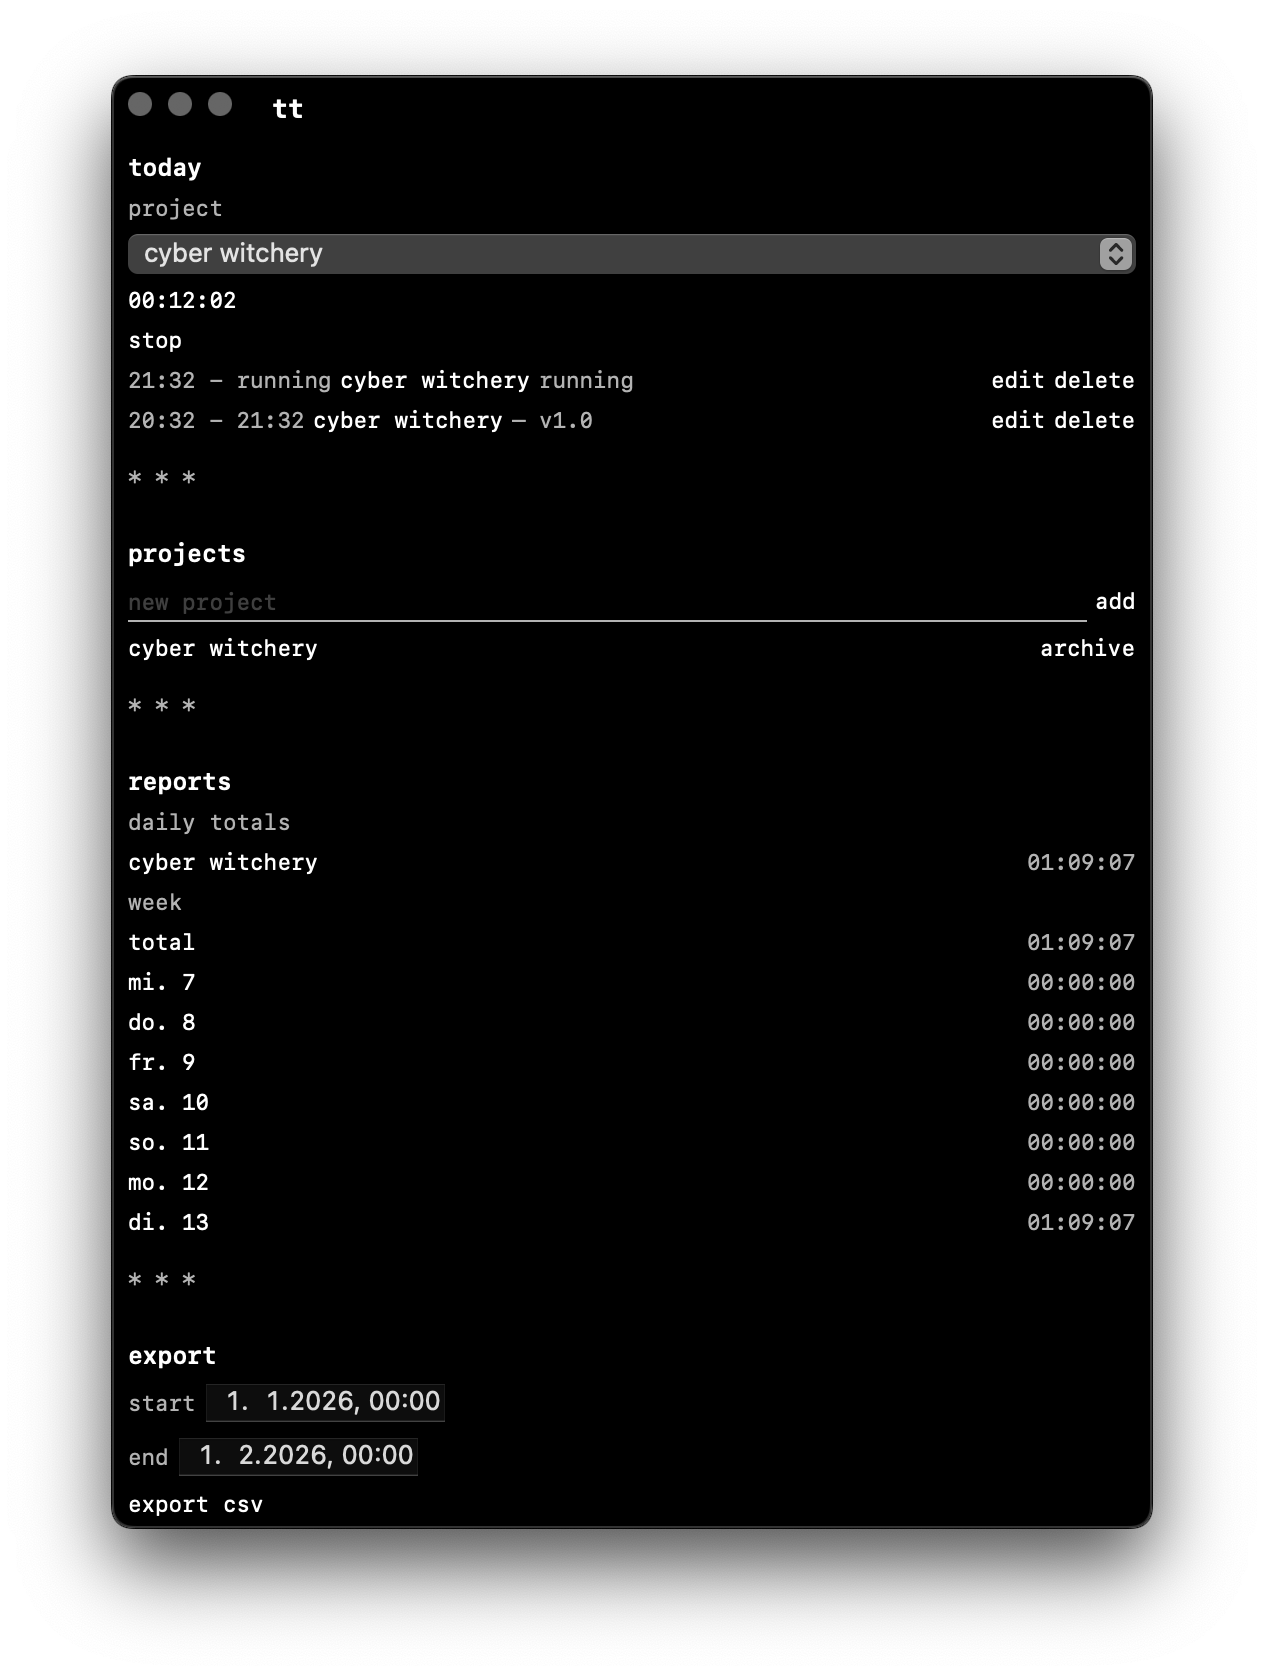
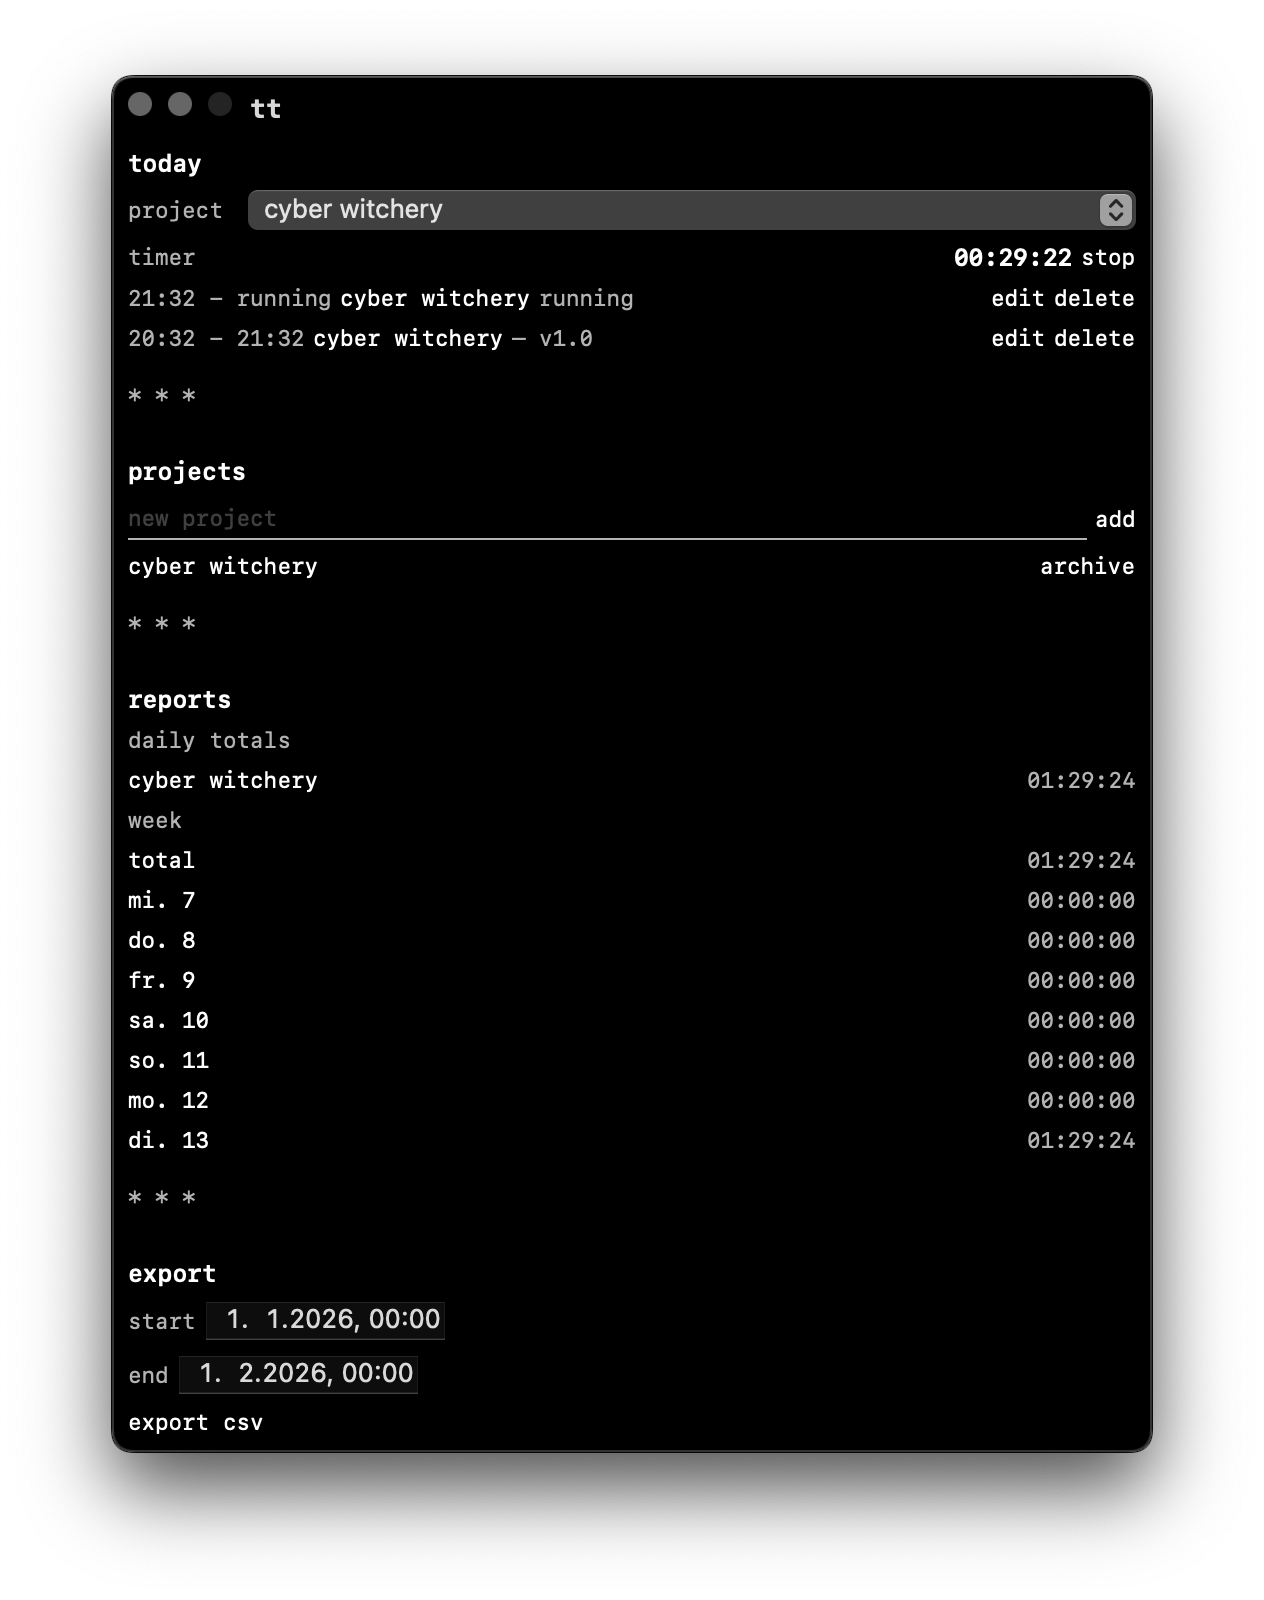
a better main window

diff --git a/tt/UI/Views/MainWindowView.swift b/tt/UI/Views/MainWindowView.swift
@@ -28,43 +28,54 @@ struct MainWindowView: View {
 
     var body: some View {
         VStack(alignment: .leading, spacing: BrutalistTheme.sectionSpacing) {
-            Text("tt")
-                .font(BrutalistTheme.titleFont)
-                .foregroundColor(BrutalistTheme.foreground(for: colorScheme))
-                .padding(.leading, BrutalistTheme.titleInsetLeading)
-
             VStack(alignment: .leading, spacing: BrutalistTheme.rowSpacing) {
                 Text("today")
                     .font(BrutalistTheme.sectionFont)
                     .foregroundColor(BrutalistTheme.foreground(for: colorScheme))
 
-                Text("project")
-                    .font(BrutalistTheme.labelFont)
-                    .foregroundColor(BrutalistTheme.secondary(for: colorScheme))
+                Grid(alignment: .leading, horizontalSpacing: BrutalistTheme.tightPadding, verticalSpacing: BrutalistTheme.rowSpacing) {
+                    GridRow {
+                        Text("project")
+                            .font(BrutalistTheme.labelFont)
+                            .foregroundColor(BrutalistTheme.secondary(for: colorScheme))
+                            .frame(width: 56, alignment: .leading)
 
-                Picker("", selection: Binding(
-                    get: { appState.selectedProjectId ?? "" },
-                    set: { appState.selectProject(id: $0) }
-                )) {
-                    ForEach(appState.projects) { project in
-                        Text(project.name.lowercased()).tag(project.id)
+                        Picker("", selection: Binding(
+                            get: { appState.selectedProjectId ?? "" },
+                            set: { appState.selectProject(id: $0) }
+                        )) {
+                            ForEach(appState.projects) { project in
+                                Text(project.name.lowercased()).tag(project.id)
+                            }
+                        }
+                        .labelsHidden()
+                        .font(BrutalistTheme.bodyFont)
+                        .frame(maxWidth: .infinity, alignment: .leading)
                     }
-                }
-                .labelsHidden()
-                .font(BrutalistTheme.bodyFont)
-                .frame(maxWidth: .infinity, alignment: .leading)
 
-                Text(TimeMath.formatHMS(seconds: appState.elapsedSeconds))
-                    .font(BrutalistTheme.bodyFont)
-                    .foregroundColor(BrutalistTheme.foreground(for: colorScheme))
+                    GridRow {
+                        Text("timer")
+                            .font(BrutalistTheme.labelFont)
+                            .foregroundColor(BrutalistTheme.secondary(for: colorScheme))
+                            .frame(width: 56, alignment: .leading)
 
-                if appState.runningEntry == nil {
-                    BrutalistTextButton(title: "start") {
-                        appState.startTimer()
-                    }
-                } else {
-                    BrutalistTextButton(title: "stop") {
-                        appState.stopTimer()
+                        HStack(spacing: BrutalistTheme.tightPadding) {
+                            Spacer()
+                            Text(TimeMath.formatHMS(seconds: appState.elapsedSeconds))
+                                .font(BrutalistTheme.sectionFont)
+                                .foregroundColor(BrutalistTheme.foreground(for: colorScheme))
+                                .frame(minWidth: 80, alignment: .trailing)
+
+                            if appState.runningEntry == nil {
+                                BrutalistTextButton(title: "start") {
+                                    appState.startTimer()
+                                }
+                            } else {
+                                BrutalistTextButton(title: "stop") {
+                                    appState.stopTimer()
+                                }
+                            }
+                        }
                     }
                 }
 
@@ -323,9 +334,9 @@ struct MainWindowView: View {
             }
         }
         .padding(BrutalistTheme.padding)
-        .frame(minWidth: 480, minHeight: 360, alignment: .topLeading)
+        .frame(width: 520, alignment: .topLeading)
+        .fixedSize(horizontal: false, vertical: true)
         .background(BrutalistTheme.background(for: colorScheme))
-        .ignoresSafeArea(.container, edges: .top)
     }
 
     private func entryTimeLabel(_ entry: TimeEntry) -> String {

diff --git a/tt/AppDelegate.swift b/tt/AppDelegate.swift
@@ -8,6 +8,7 @@ final class AppDelegate: NSObject, NSApplicationDelegate {
     private var allowTerminate = false
     private var eventMonitor: Any?
     private var localEventMonitor: Any?
+    private var titleAccessory: NSTitlebarAccessoryViewController?
 
     func applicationDidFinishLaunching(_ notification: Notification) {
         let appState = AppState.shared
@@ -61,9 +62,11 @@ final class AppDelegate: NSObject, NSApplicationDelegate {
 
     @objc private func showMainWindow() {
         if mainWindow == nil {
+            let desiredWidth: CGFloat = 520
+            let hostingController = NSHostingController(rootView: MainWindowView(appState: AppState.shared))
             let window = NSWindow(
-                contentRect: NSRect(x: 0, y: 0, width: 520, height: 740),
-                styleMask: [.titled, .closable, .miniaturizable, .resizable],
+                contentRect: NSRect(x: 0, y: 0, width: desiredWidth, height: 740),
+                styleMask: [.titled, .closable, .miniaturizable],
                 backing: .buffered,
                 defer: false
             )
@@ -73,13 +76,31 @@ final class AppDelegate: NSObject, NSApplicationDelegate {
             window.titlebarSeparatorStyle = .none
             window.styleMask.insert(.fullSizeContentView)
             window.isReleasedWhenClosed = false
-            window.contentView = NSHostingView(rootView: MainWindowView(appState: AppState.shared))
+            window.contentViewController = hostingController
+            let fittingSize = hostingController.sizeThatFits(in: NSSize(width: desiredWidth, height: .greatestFiniteMagnitude))
+            window.setContentSize(NSSize(width: desiredWidth, height: fittingSize.height))
+            if titleAccessory == nil {
+                let container = NSView(frame: NSRect(x: 0, y: 0, width: 120, height: 24))
+                let label = NSTextField(labelWithString: "tt")
+                label.frame = NSRect(x: 0, y: 4, width: 120, height: 16)
+                label.font = NSFont.monospacedSystemFont(ofSize: 13, weight: .bold)
+                label.textColor = NSColor.labelColor
+                label.alignment = .left
+                container.addSubview(label)
+                let accessory = NSTitlebarAccessoryViewController()
+                accessory.view = container
+                accessory.layoutAttribute = .leading
+                titleAccessory = accessory
+            }
             mainWindow = window
         }
 
         mainWindow?.center()
         mainWindow?.makeKeyAndOrderFront(nil)
         NSApp.activate(ignoringOtherApps: true)
+        if let mainWindow, let titleAccessory, !mainWindow.titlebarAccessoryViewControllers.contains(titleAccessory) {
+            mainWindow.addTitlebarAccessoryViewController(titleAccessory)
+        }
     }
 
     @objc private func requestQuit() {

diff --git a/tt/UI/BrutalistTheme.swift b/tt/UI/BrutalistTheme.swift
@@ -24,7 +24,6 @@ enum BrutalistTheme {
     static let tightPadding: CGFloat = 4
     static let dividerTopPadding: CGFloat = 0
     static let dividerBottomPadding: CGFloat = 10
-    static let titleInsetLeading: CGFloat = 72
 }
 
 struct BrutalistTextButton: View {
